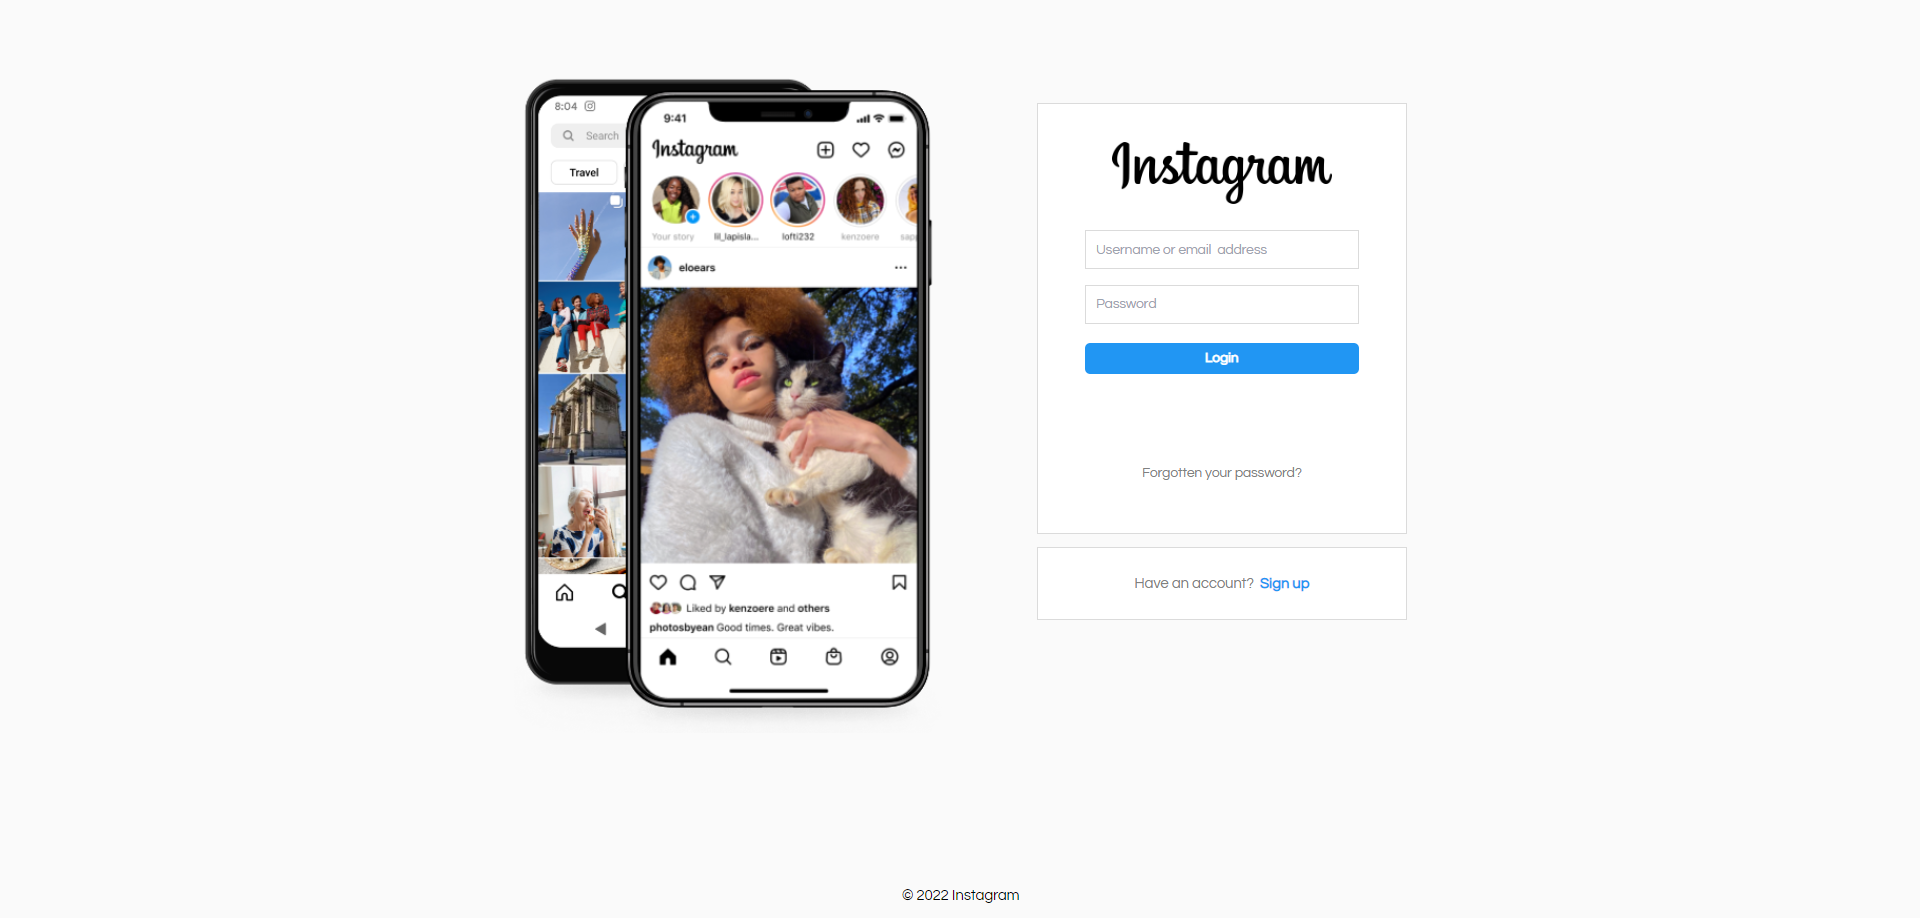
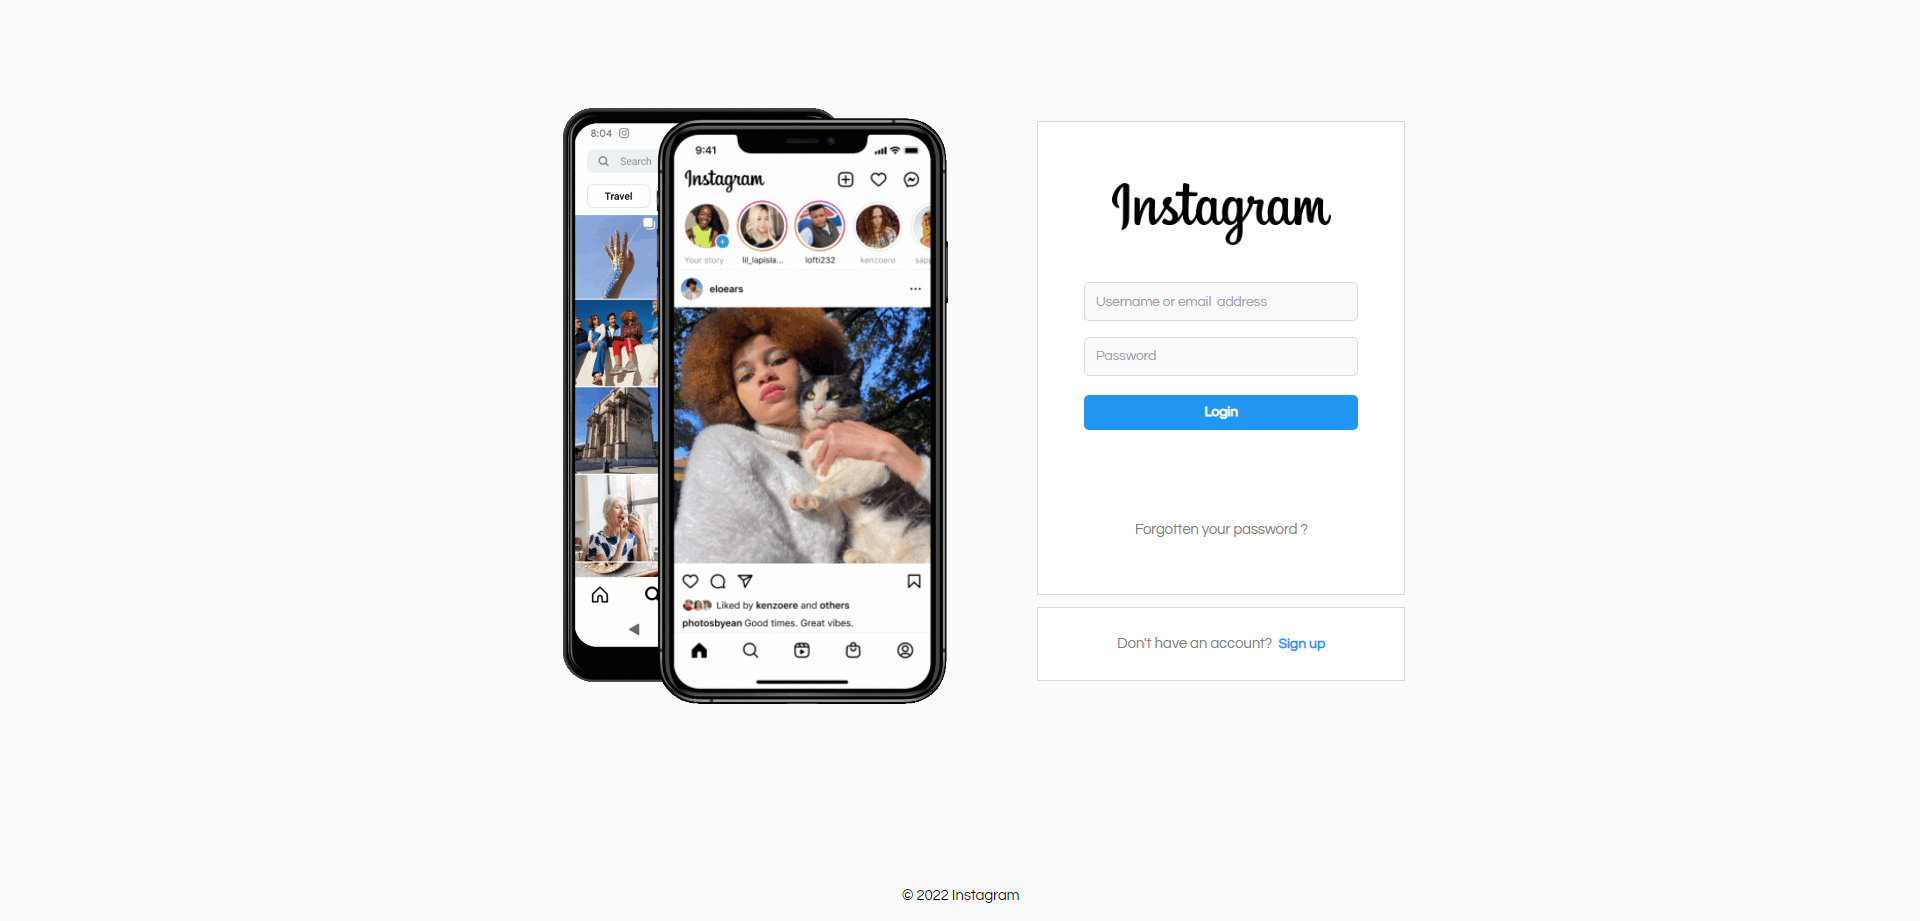
login and signup page image added

diff --git a/frontend/src/components/login/SignupCard.jsx b/frontend/src/components/login/SignupCard.jsx
@@ -1,4 +1,5 @@
 import React from 'react'
+import { Link } from 'react-router-dom'
 import logo from '../../assets/logo.png'
 
 
@@ -9,14 +10,14 @@ export const SignupCard = () => {
                 <img style={{ width: '60%', margin: '35px 0', marginBottom: '25px', }} src={logo} alt="" />
                 <p style={{ marginTop: '0px', color: 'gray', fontSize: '15px' ,marginBottom:'25px',width:'70%',textAlign:'center',fontWeight:'bold'}}>Sign up to see photos and videos from your friends</p>
 
-                <input className='border' style={{ marginTop: '0px', width: '75%', height: '37px', fontSize: '13px', backgroundColor: '', padding: '0 9px', outline: 'none' }} type="text" placeholder='Email  address' />
-                <input className='border' style={{ marginTop: '15px', width: '75%', height: '37px', fontSize: '13px', backgroundColor: '', padding: '0 9px', outline: 'none' }} type="text" placeholder='Full Name' />
-                <input className='border' style={{ marginTop: '15px', width: '75%', height: '37px', fontSize: '13px', backgroundColor: '', padding: '0 9px', outline: 'none' }} type="text" placeholder='Username' />
-                <input className='border' style={{ marginTop: '15px', width: '75%', height: '37px', fontSize: '13px', backgroundColor: '', padding: '0 9px', outline: 'none' }} type="password" placeholder='Password' />
-                <button style={{ border: 'none', outline: 'none', background: 'blue', padding: '5px 9px', borderRadius: '5px', color: 'white', backgroundColor: '#2196f3', marginTop: '18px', fontSize: '13px', width: '75%',fontWeight:'bold' }}>Sign Up</button>
+                <input className='border' style={{ marginTop: '15px', width: '75%', height: '37px', fontSize: '13px', backgroundColor: '#fafafa ', padding: '0 9px', outline: 'none',borderRadius:'5px' }} type="text" placeholder='Email  address' />
+                <input className='border' style={{ marginTop: '15px', width: '75%', height: '37px', fontSize: '13px', backgroundColor: '#fafafa ', padding: '0 9px', outline: 'none',borderRadius:'5px'  }} type="text" placeholder='Full Name' />
+                <input className='border' style={{ marginTop: '15px', width: '75%', height: '37px', fontSize: '13px', backgroundColor: '#fafafa ', padding: '0 9px', outline: 'none',borderRadius:'5px'  }} type="text" placeholder='Username' />
+                <input className='border' style={{ marginTop: '15px', width: '75%', height: '37px', fontSize: '13px', backgroundColor: '#fafafa ', padding: '0 9px', outline: 'none',borderRadius:'5px'  }} type="password" placeholder='Password' />
+                <button style={{ border: 'none', outline: 'none', background: 'blue', padding: '7px 9px', borderRadius: '5px', color: 'white', backgroundColor: '#2196f3', marginTop: '18px', fontSize: '13.85px', width: '75%',fontWeight:'bold' }}>Sign Up</button>
             </div>
             <div className="signup-action-box border" style={{ textAlign: 'center' }}>
-            <p style={{ color: 'gray', fontSize: '14px' }}>Have an account ?<span style={{ color: '#2196f3', fontWeight: 'bold', marginLeft: '6px' }}>Log in</span></p>
+            <p style={{ color: 'gray', fontSize: '14px' }}>Have an account ?<Link to="/login" style={{ color: '#2196f3', fontWeight: 'bold', marginLeft: '6px',textDecoration:'none',fontSize:'13.5px' }}>Log in</Link></p>
             </div>
         </div>
     )

diff --git a/frontend/src/components/login/LoginCard.jsx b/frontend/src/components/login/LoginCard.jsx
@@ -1,4 +1,5 @@
 import React from 'react'
+import { Link } from 'react-router-dom'
 import logo from '../../assets/logo.png'
 
 
@@ -7,13 +8,13 @@ export const LoginCard = () => {
         <div className="right-login">
             <div className="login-box border">
                 <img style={{ width: '60%', margin: '35px 0', marginBottom: '25px', }} src={logo} alt="" />
-                <input className='border' style={{ marginTop: '0px', width: '75%', height: '37px', fontSize: '13px', backgroundColor: '', padding: '0 9px', outline: 'none' }} type="text" placeholder='Username or email  address' />
-                <input className='border' style={{ marginTop: '15px', width: '75%', height: '37px', fontSize: '13px', backgroundColor: '', padding: '0 9px', outline: 'none' }} type="password" placeholder='Password' />
-                <button style={{ border: 'none', outline: 'none', background: 'blue', padding: '5px 9px', borderRadius: '5px', color: 'white', backgroundColor: '#2196f3', marginTop: '18px', fontSize: '13px', width: '75%',fontWeight:'bold' }}>Login</button>
-                <p style={{ marginTop: '85px', color: 'gray', fontSize: '13px' }}>Forgotten your password?</p>
+                <input className='border' style={{ marginTop: '10px', width: '75%', height: '37px', fontSize: '13px', padding: '0 9px', outline: 'none',borderRadius:'5px',backgroundColor: '#fafafa '}} type="text" placeholder='Username or email  address' />
+                <input className='border' style={{ marginTop: '15px', width: '75%', height: '37px', fontSize: '13px', backgroundColor: '#fafafa ', padding: '0 9px', outline: 'none',borderRadius:'5px' }} type="password" placeholder='Password' />
+                <button style={{ border: 'none', outline: 'none', background: 'blue', padding: '7px 9px', borderRadius: '5px', color: 'white', backgroundColor: '#2196f3', marginTop: '18px', fontSize: '13px', width: '75%',fontWeight:'bold' }}>Login</button>
+                <p style={{ marginTop: '85px', color: 'gray', fontSize: '13.85px' }}>Forgotten your password ?</p>
             </div>
             <div className="signup-action-box border" style={{ textAlign: 'center' }}>
-                <p style={{ color: 'gray', fontSize: '14px' }}>Have an account?<span style={{ color: '#2196f3', fontWeight: 'bold', marginLeft: '6px' }}>Sign up</span></p>
+                <p style={{ color: 'gray', fontSize: '14px' }}>Don't have an account?<Link to="/signup" style={{ color: '#2196f3', fontWeight: 'bold', marginLeft: '6px',textDecoration:'none',fontSize:'13.25px'  }}>Sign up</Link></p>
             </div>
         </div>
     )

diff --git a/frontend/src/index.css b/frontend/src/index.css
@@ -81,7 +81,7 @@ body {
   display: flex;
   flex-direction: row;
   justify-content: space-around;
-  margin-top: 7.5vh;
+  margin-top: 9.5vh;
   height: fit-content;
 }
 
@@ -98,27 +98,29 @@ body {
 
 .login-box {
   background-color: white;
-  min-height: 410px;
-  width: 100%;
+  min-height: 450px;
+  width: 350px;
   display: flex;
   flex-direction: column;
   align-items: center;
   margin-top: 14px;
+  padding-top: 22px;
 }
 .signup-box {
   background-color: white;
-  min-height: 490px;
-  width: 100%;
+  min-height: 590px;
+  width: 350px;
   display: flex;
   flex-direction: column;
   align-items: center;
-  margin-top: 14px;
+  padding-top: 22px;
+
 }
 
 .signup-action-box {
   background-color: white;
   min-height: 70px;
-  width: 100%;
+  width: 350px;
   margin-top: 12px;
   display: flex;align-items: center;
   justify-content: center;
@@ -133,3 +135,4 @@ body {
   top: 19.9px;
   right: 46.2px;
 }
+

diff --git a/frontend/src/pages/Signup.jsx b/frontend/src/pages/Signup.jsx
@@ -1,5 +1,5 @@
 import React from 'react'
-import phone from '../assets/phome.png'
+import phone from '../assets/gifphone.gif'
 import { SignupCard } from '../components/login/SignupCard'
 
 export function Signup() {
@@ -8,7 +8,7 @@ export function Signup() {
         <div className='home lg-sg'>
             <div className="login-left">
                 <div className="phone">
-                    <img className='' style={{ width: '453px',marginTop:'-19px' }} src={phone} alt="" />
+                    <img className='' style={{ width: '453px'}} src={phone} alt="" />
                 </div>
             </div>
             <SignupCard/>

diff --git a/frontend/src/pages/Login.jsx b/frontend/src/pages/Login.jsx
@@ -1,5 +1,5 @@
 import React from 'react'
-import phone from '../assets/phome.png'
+import phone from '../assets/gifphone.gif'
 import {LoginCard} from '../components/login/LoginCard'
 
 export function Login() {
@@ -7,7 +7,7 @@ export function Login() {
         <div className='home lg-sg'>
             <div className="login-left">
                 <div className="phone">
-                    <img className='' style={{ width: '453px',marginTop:'-19px' }} src={phone} alt="" />
+                    <img className='' style={{ width: '453px' }} src={phone} alt="" />
                 </div>
             </div>
             <LoginCard/>

diff --git a/frontend/src/App.js b/frontend/src/App.js
@@ -6,8 +6,8 @@ import { Login } from "./pages/Login";
 import { Signup } from "./pages/Signup";
 import { AuthContext } from "./context/Auth";
 import { useState } from "react";
-import { Private } from "./Routers/Private";
-import Redirect from "./Routers/Redirect";
+import { Private } from "./routers/Private";
+import Redirect from "./routers/Redirect";
 
 function App() {
   const [auth, setAuth] = useState(null);
